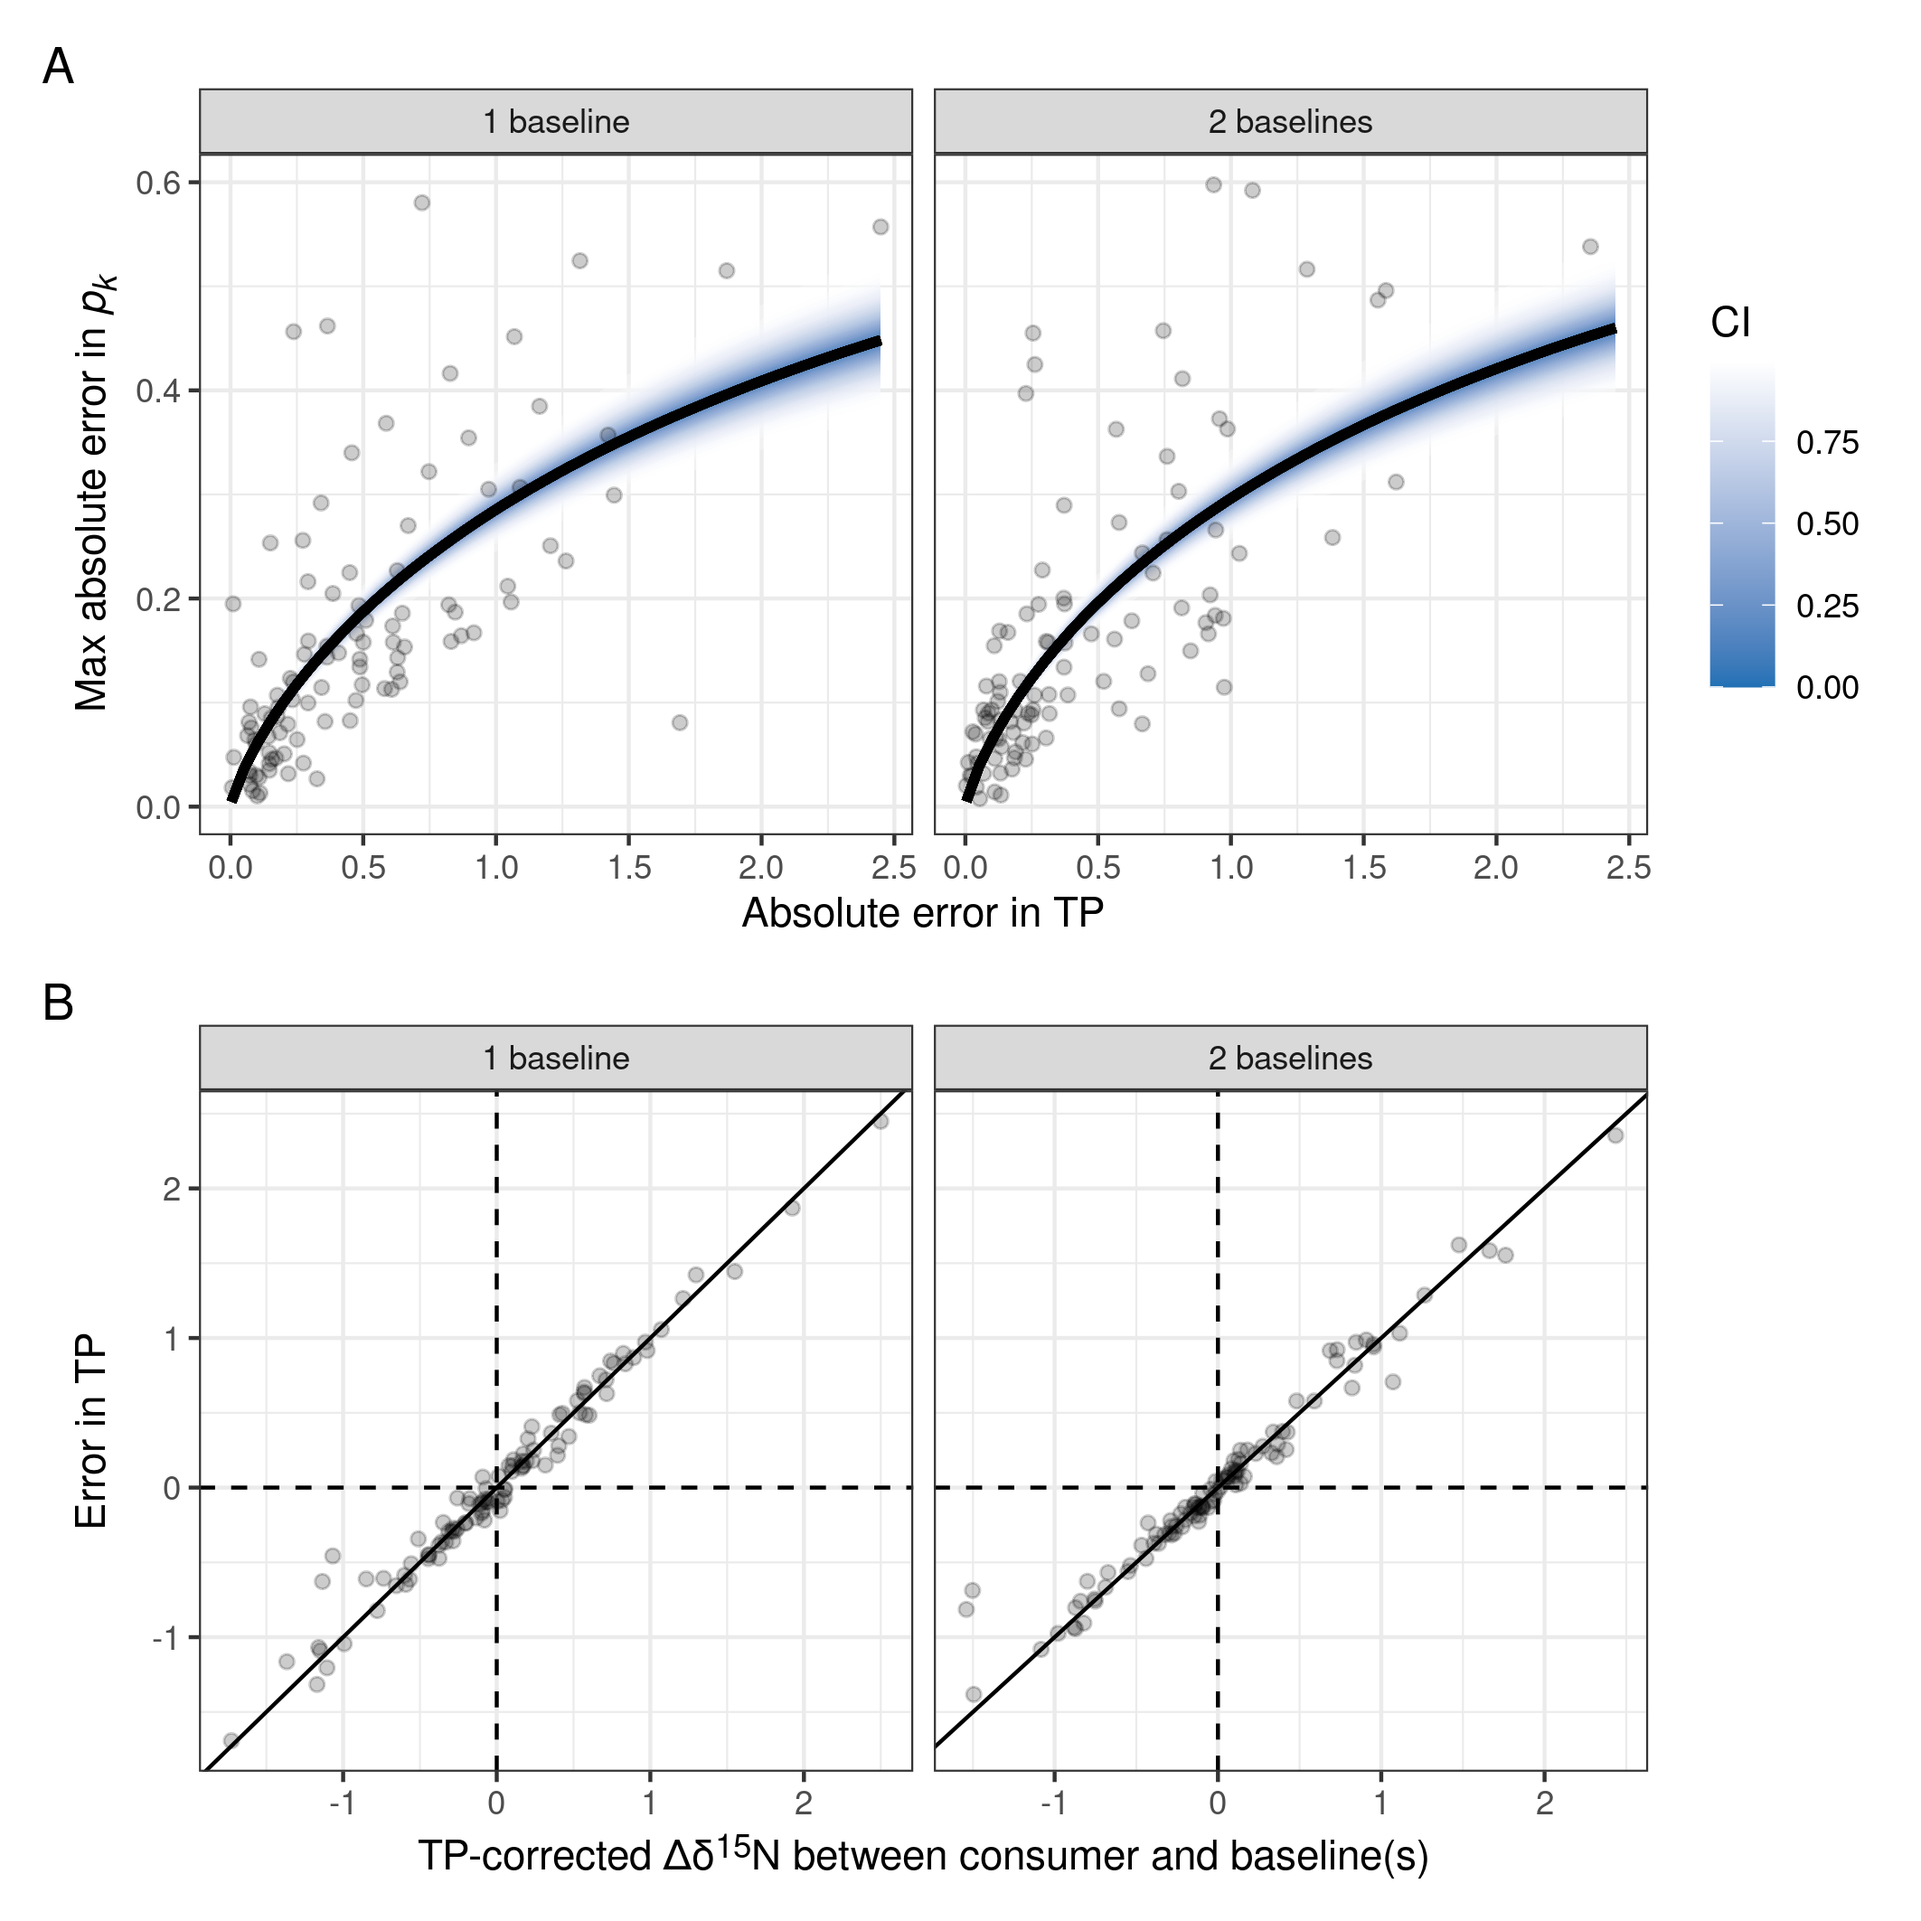
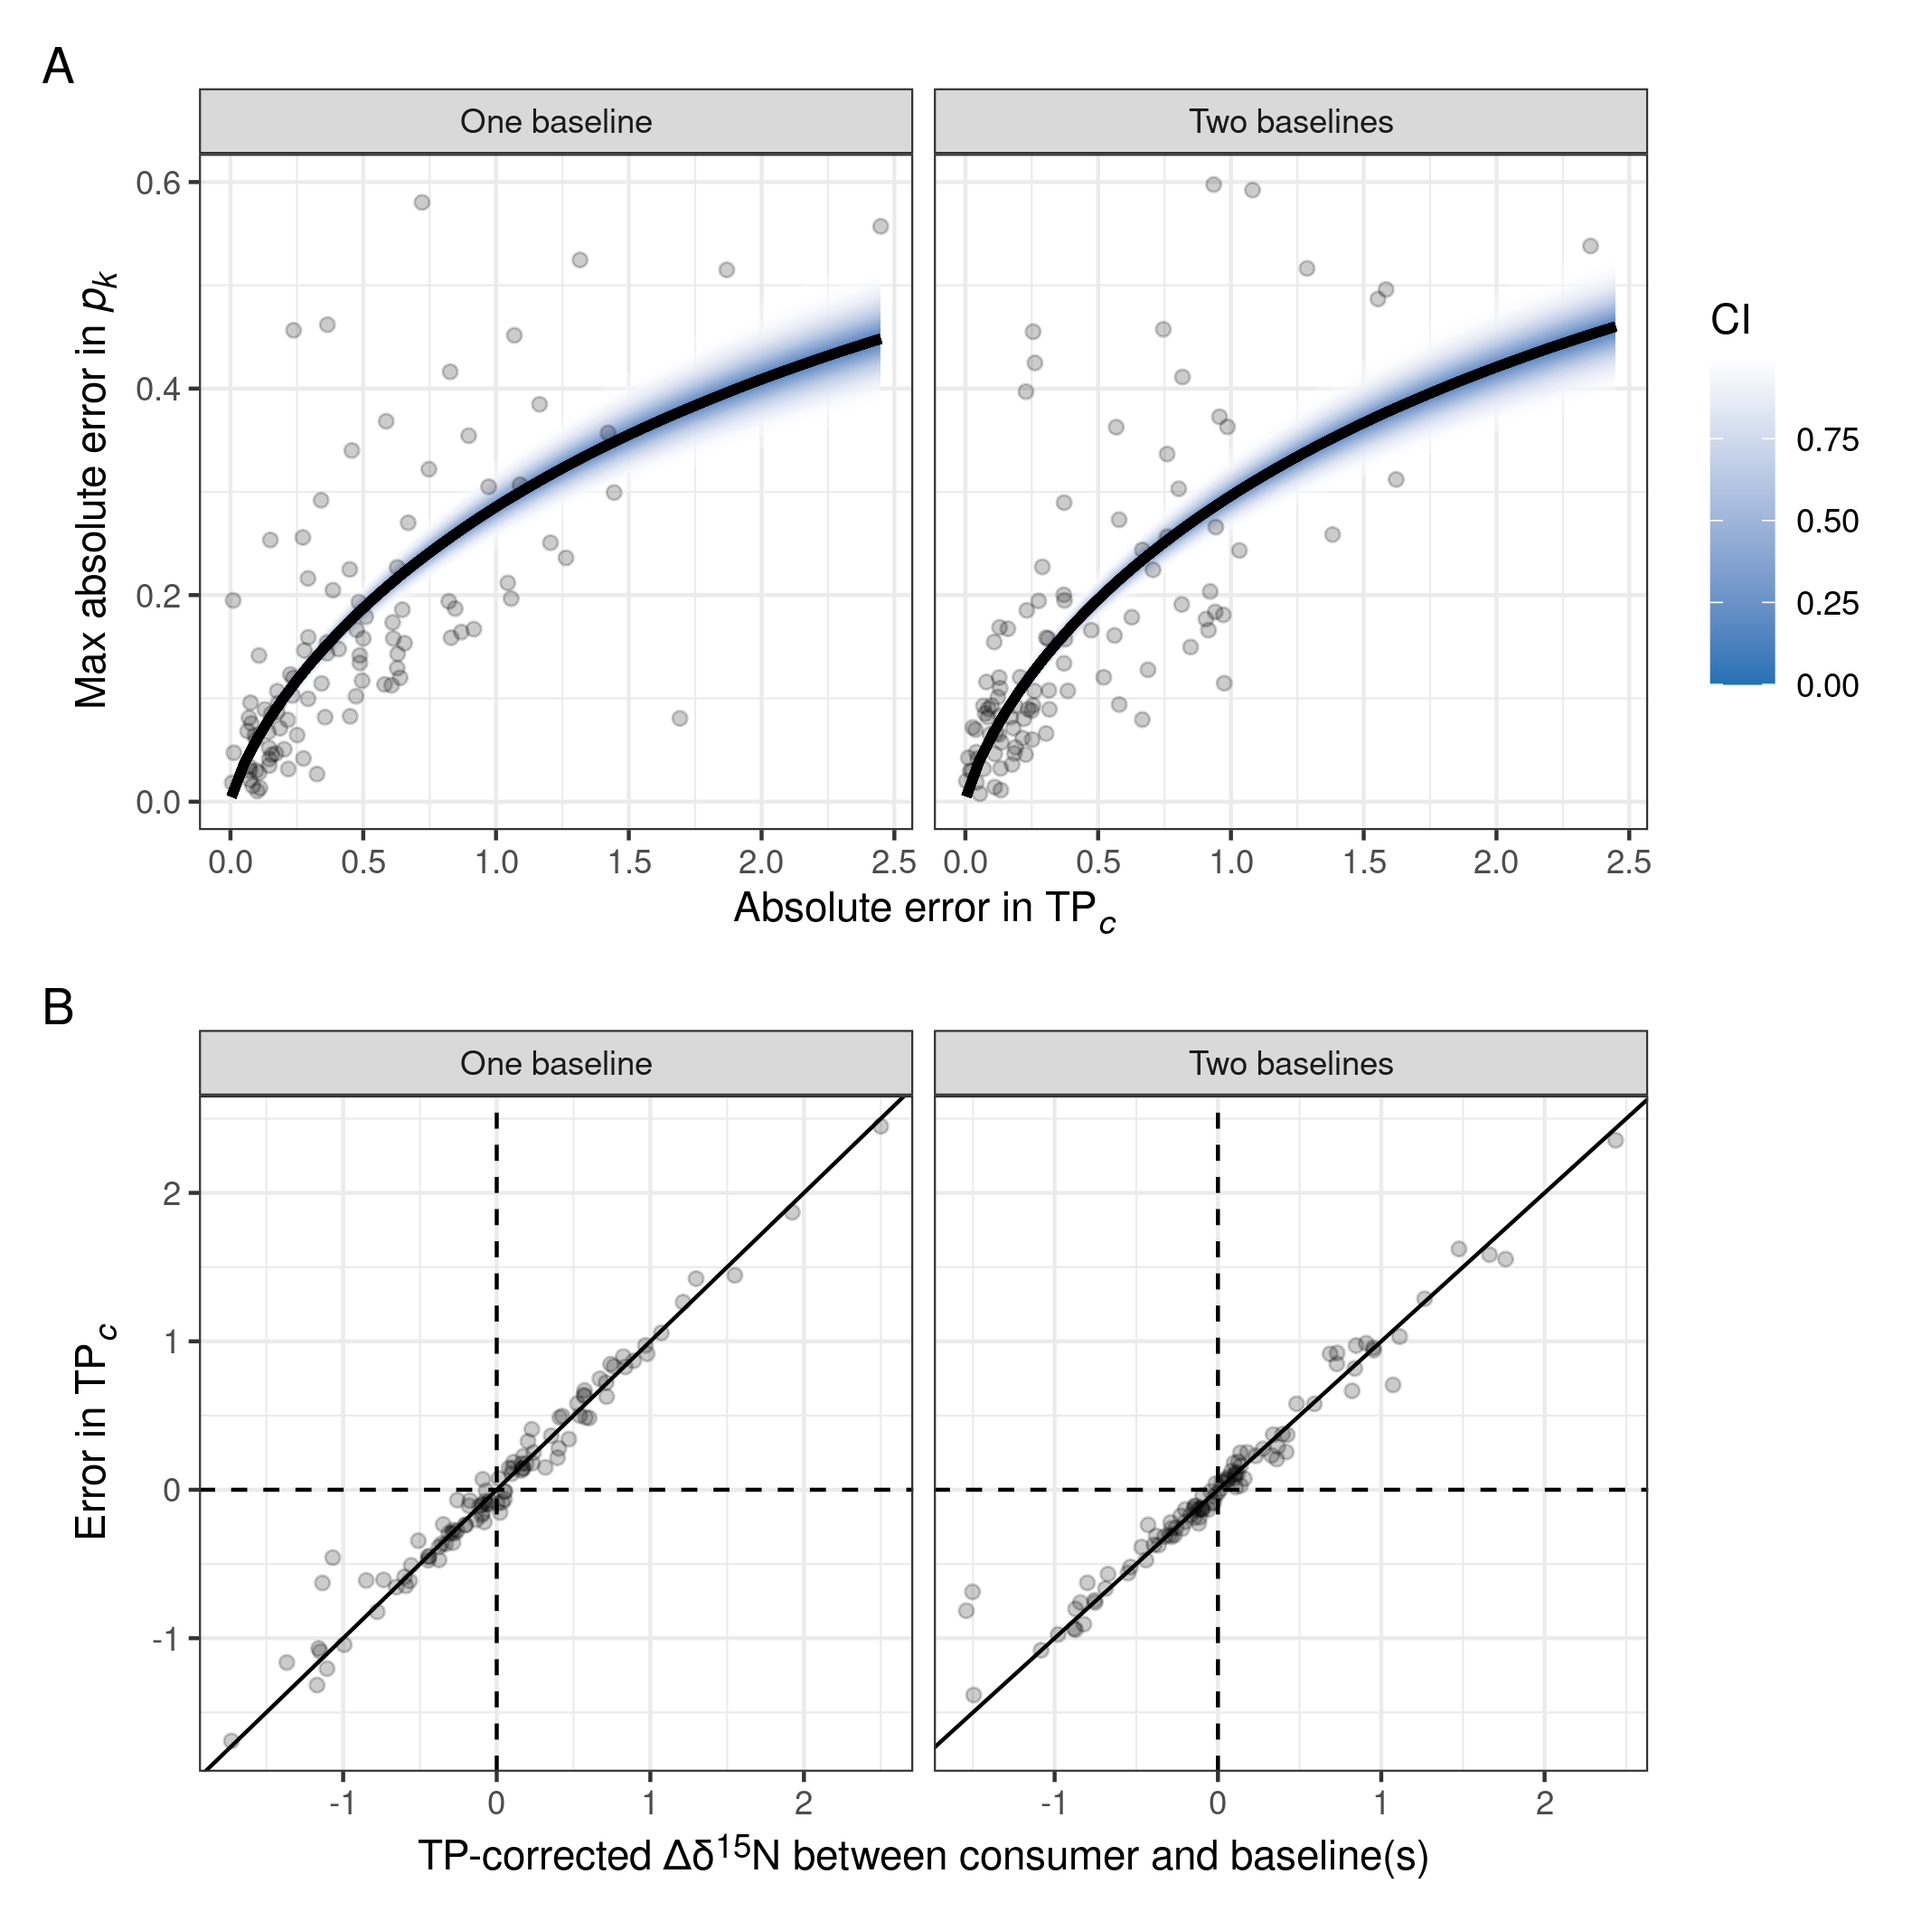
Update labels in figure 2

diff --git a/README.md b/README.md
@@ -11,7 +11,7 @@ The goal of this project is to reproduce all results and figures of the
 simulations in the paper
 
 > TITLE AND AUTHORS
-> <!-- > Title: Best practices for estimating consumer reliance on basal food sources with bulk stable isotopes -->
+> <!-- > Title: Best practices for the analytical estimation of consumer reliance on basal food sources using bulk stable isotopes -->
 > <!-- > -->
 > <!-- > Authors: Ghilardi M, Morais RA, Brandl SJ, Casey JM, Mercière A, Morat F, Schiettekatte NMD, Kayal M, Letourneur Y, Parravicini V -->
 
@@ -258,7 +258,7 @@ graph LR
     #>  [9] LC_ADDRESS=C               LC_TELEPHONE=C            
     #> [11] LC_MEASUREMENT=en_GB.UTF-8 LC_IDENTIFICATION=C       
     #> 
-    #> time zone: Atlantic/Canary
+    #> time zone: Europe/Paris
     #> tzcode source: system (glibc)
     #> 
     #> attached base packages:
